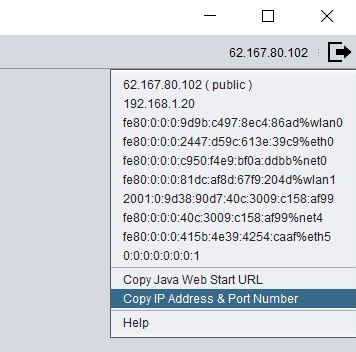
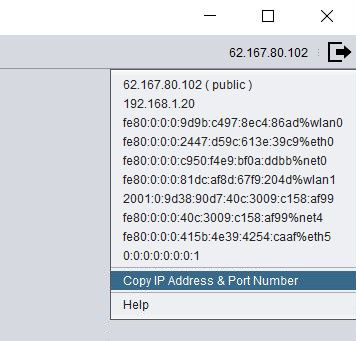
Updated documentation

diff --git a/docs/de_download.html b/docs/de_download.html
@@ -8,6 +8,7 @@
 <meta http-equiv="X-UA-Compatible" content="IE=edge">
 <title>Dayon! - Fernwartung für Familie und Freunde</title>
 <link rel="stylesheet" type="text/css" href="style.css">
+<link rel="shortcut icon" type="image/x-icon" href="favicon.ico">
 </head>
 <body>
 	<div id="container">
@@ -26,7 +27,7 @@
 			<p>
 				<b>Windows:</b> es existieren zwei Installationspakete, die eigentliche Installation ist selbsterklärend. Sie haben die Wahl zwischen einem Installer mit oder ohne integrierter JRE (OpenJDK 1.8 basiert). Das Paket mit integrierter JRE eignet sich bloss für 64Bit Windows Varianten.
 			<p>
-				<b>Debian und Ubuntu Linux:</b> das <code>.deb</code> Paket lässt sich am komfortabelsten mittels dem integrierten Software Installer installieren. Alternativ kann es via dem Befehl <code>sudo dpkg -i dayon*.deb</code> manuell installiert werden.
+				<b>Debian & Ubuntu:</b> das <code>.deb</code> Paket lässt sich am komfortabelsten mittels dem integrierten Software Installer installieren. Alternativ kann es via dem Befehl <code>sudo dpkg -i dayon*.deb</code> manuell installiert werden.
 			<p>
 				<b>Linux:</b> das .tgz-Paket mittels <code>tar xzvf</code> entpacken. Im Zielverzeichnis das Shellskript <code>setup.sh</code> ausführen. Die installierte JRE resp. JDK wird automatisch detektiert. Die JRE ist nicht im
 				.tgz-Paket enthalten. Sollte die Autodetektierung aus irgend einem Grund fehlschlagen, so überprüfen Sie das Vorhandensein einer JRE und definieren deren Pfad in der Variable <code>JAVA_HOME</code> im Skript (<code>bin/dayon.sh</code>). Beachten Sie, dass die
@@ -34,6 +35,12 @@
 			<p>
 				<b>Mac OS/OS X:</b> das Paket an einen Ort ihrer Wahl entpacken. Ev. einen Alias für bin/dayon_assisted und bin/dayon_assistant erstellen und auf den Desktop kopieren. (Voraussetzung: installiertes JDK 1.8 oder neuer).
 			<h2>Changelog</h2>
+			<h3>Änderungen Dayon! v1.8 Truganini (18. Mai 2019) <span class="red">*</span></h3>
+			<ul>
+				<li>Verbesserter Datei Transfer
+				<li>JAVA Web Start entfernt
+				<li>Jetty Abhängigkeiten entfernt
+			</ul>
 			<h3>Änderungen Dayon! v1.7 Tesler (21. Februar 2019) <span class="red">*</span></h3>
 			<ul>
 				<li>Transfer der Zwischenablage

diff --git a/docs/fr_download.html b/docs/fr_download.html
@@ -8,6 +8,7 @@
 <meta http-equiv="X-UA-Compatible" content="IE=edge">
 <title>Dayon! - Assistance à distance pour votre famille et vos amis</title>
 <link rel="stylesheet" type="text/css" href="style.css">
+<link rel="shortcut icon" type="image/x-icon" href="favicon.ico">
 </head>
 <body>
 	<div id="container">
@@ -27,13 +28,19 @@
 				<b>Windows:</b> deux programmes d'installation sont disponible et l'installation devrait être assez directe. Un paquet est livré avec un JRE à base du OpenJDK 1.8, l'autre sans. Cet avec JRE peut seulement etre utilisé avec des versions de Windows de
 				64bit.
 			<p>
-				<b>Debian et Ubuntu:</b> le paquet <code>.deb</code> peut être installé à l'aide du programme d'installation fourni par votre système d'exploitation. Sinon, vous pouvez l'installer en exécutant <code>sudo dpkg -i dayon*.deb</code>.
+				<b>Debian & Ubuntu:</b> le paquet <code>.deb</code> peut être installé à l'aide du programme d'installation fourni par votre système d'exploitation. Sinon, vous pouvez l'installer en exécutant <code>sudo dpkg -i dayon*.deb</code>.
 			<p>
 				<b>Linux:</b> extraisez le fichier TGZ. Exécutez le script <code>setup.sh</code>. La location du JRE/JDK installé va être détecté automatiquement. Il n'est pas livré dans le tgz. Si, pour quelque raison que ce soit, il ne
 				le fasse pas, vous pouvez configurez <code>JAVA_HOME</code> dans (<code>bin/dayon_run.sh</code>) manuellement. Notez que, j'ai testé ceci sur Debian et Ubuntu seulement.
 			<p>
 				<b>Mac OS/OS X:</b> extrayez le fichier TGZ à une location de votre choix. Pour plus de commodité, vous pouvez créer un alias pour bin/dayon_assisted et bin/dayon_assistant et les copier sur votre bureau. (JDK 1.8 nécessaire)
 			<h2>Journal des modifications</h2>
+			<h3>Modifications pour Dayon! v1.8 Truganini (18 Mai 2019) <span class="red">*</span></h3>
+			<ul>
+				<li>Transfert de fichier amélioré
+				<li>Enlevé JAVA Web Start
+				<li>Supprimé les dépendances Jetty
+			</ul>
 			<h3>Modifications pour Dayon! v1.7 Tesler (21 février 2019) <span class="red">*</span></h3>
 			<ul>
 				<li>Transfér du presse-papier

diff --git a/docs/download.html b/docs/download.html
@@ -8,6 +8,7 @@
 <meta http-equiv="X-UA-Compatible" content="IE=edge">
 <title>Dayon! - Remote assistance for your family and friends</title>
 <link rel="stylesheet" type="text/css" href="style.css">
+<link rel="shortcut icon" type="image/x-icon" href="favicon.ico">
 </head>
 <body>
 	<div id="container">
@@ -26,13 +27,19 @@
 			<p>
 				<b>Windows:</b> two installers are available and the installation should be straightforward. One package comes bundled with an OpenJDK 1.8 based JRE and one without. The one with included JRE is for 64bit versions of Windows only.
 			<p>
-				<b>Debian and Ubuntu Linux:</b> the <code>.deb</code> package can be installed using the software installer provided by your operating system. Alternatively you may install it by executing <code>sudo dpkg -i dayon*.deb</code>.
+				<b>Debian & Ubuntu:</b> the <code>.deb</code> package can be installed using the software installer provided by your operating system. Alternatively you may install it by executing <code>sudo dpkg -i dayon*.deb</code>.
 			<p>
 				<b>Linux:</b> you have to <code>tar xzvf</code> the package. Run the script <code>setup.sh</code>, located in the target directory. The location of the installed JRE/JDK is going to be detected automatically. It is not bundled in the tgz. If it should
 				for whatever reason fail to do so, then you can set the <code>JAVA_HOME</code> in (<code>bin/dayon_run.sh</code>) manually. Note that, I've been testing this on various Debian and Ubuntu releases only.
 			<p>
 				<b>Mac OS/OS X:</b> extract the package to a location of your choice. For more convenience you may want to create an alias for bin/dayon_assisted and bin/dayon_assistant and copy them to your desktop. (JDK 1.8  or greater required)
 			<h2>Change log</h2>
+			<h3>Changes in Dayon! v1.8 Truganini (May 18th, 2019) <span class="red">*</span></h3>
+			<ul>
+				<li>Improved file transfer
+				<li>Removed JAVA Web Start
+				<li>Removed Jetty dependencies
+			</ul>
 			<h3>Changes in Dayon! v1.7 Tesler (February 21th, 2019) <span class="red">*</span></h3>
 			<ul>
 				<li>Clipboard transfer

diff --git a/docs/fr_support.html b/docs/fr_support.html
@@ -8,6 +8,7 @@
 <meta http-equiv="X-UA-Compatible" content="IE=edge">
 <title>Dayon! - Assistance à distance pour votre famille et vos amis</title>
 <link rel="stylesheet" type="text/css" href="style.css">
+<link rel="shortcut icon" type="image/x-icon" href="favicon.ico">
 </head>
 <body>
 	<div id="container">
@@ -23,7 +24,7 @@
 				Vous pouvez poster une question ou ouvrir un issue sur <a href="https://github.com/retgal/dayon/issues">GitHub</a>.
 			<h3>Problèmes Connus</h3>
 			<ul>
-				<li>Le support (version 1.7) du clavier est toujours plutôt minimal; il n'y pas moyen pour le moment d'envoyer des signaux et quelques combinaisons de touches ne sont pas supportées correctement (e.g., <code>Ctrl-Alt-Del</code>).
+				<li>En version 1.8, le support du clavier est toujours limité; il n'y pas moyen pour le moment d'envoyer des signaux et quelques combinaisons de touches ne sont pas supportées correctement (e.g., <code>Ctrl-Alt-Del</code>).
 				<li>Le transfert de répertoires (dossiers) n'est pas possible.
 				<li>La vitesse de transmission pour des gros fichiers est très modeste.
 			</ul>

diff --git a/docs/de_support.html b/docs/de_support.html
@@ -8,6 +8,7 @@
 <meta http-equiv="X-UA-Compatible" content="IE=edge">
 <title>Dayon! - Fernwartung für Familie und Freunde</title>
 <link rel="stylesheet" type="text/css" href="style.css">
+<link rel="shortcut icon" type="image/x-icon" href="favicon.ico">
 </head>
 <body>
 	<div id="container">
@@ -23,7 +24,7 @@
 				Posten Sie eine Frage oder erfassen Sie ein Issue auf <a href="https://github.com/retgal/dayon/issues">GitHub</a>.
 			<h3>Bekannte Einschränkungen</h3>
 			<ul>
-				<li>Auch in Version 1.7 ist die Tastaturunterstützung noch immer ziemlich minimalistisch; Es gibt zZt. keine Möglichkeit gewisse Tastenkombinationen wie etwa (e.g., <code>Ctrl-Alt-Del</code>) an den entfernten Computer zu senden.
+				<li>Auch in Version 1.8 ist die Tastaturunterstützung noch immer limitiert; Es gibt zzt. keine Möglichkeit gewisse Tastenkombinationen wie etwa (e.g., <code>Ctrl-Alt-Del</code>) an den entfernten Computer zu senden.
 				<li>Übertragen von Verzeichnissen (Ordnern) wird nicht unterstützt.
 				<li>Übertragungsgeschwindigkeit von grossen Dateien ist ziemlich bescheiden.
 			</ul>

diff --git a/docs/support.html b/docs/support.html
@@ -8,6 +8,7 @@
 <meta http-equiv="X-UA-Compatible" content="IE=edge">
 <title>Dayon! - Remote assistance for your family and friends</title>
 <link rel="stylesheet" type="text/css" href="style.css">
+<link rel="shortcut icon" type="image/x-icon" href="favicon.ico">
 </head>
 <body>
 	<div id="container">
@@ -23,7 +24,7 @@
 				Post your question or open a new issue on <a href="https://github.com/retgal/dayon/issues">GitHub</a>.
 			<h3>Known Limitations</h3>
 			<ul>
-				<li>As of version 1.7, the keyboard control support is still quite minimal; there's currently no way to send some signals and some key combinations are not properly supported (e.g., <code>Ctrl-Alt-Del</code>).
+				<li>As of version 1.8, the keyboard control support is still limited; there's currently no way to send some signals and some key combinations are not properly supported (e.g., <code>Ctrl-Alt-Del</code>).
 				<li>Transferring of directories (folders) is not supported.
 				<li>Transmission speed of larger files is rather modest.
 			</ul>

diff --git a/docs/quickstart.html b/docs/quickstart.html
@@ -8,6 +8,7 @@
 <meta http-equiv="X-UA-Compatible" content="IE=edge">
 <title>Dayon! - Remote assistance for your family and friends</title>
 <link rel="stylesheet" type="text/css" href="style.css">
+<link rel="shortcut icon" type="image/x-icon" href="favicon.ico">
 </head>
 <body>
 	<div id="container">
@@ -90,7 +91,7 @@
 				</ul>
 				<strong>Caution</strong>: Transferring of directories (folders) is not supported. Furthermore, the function is very limited for the transmission of large files, as the transmission speed is rather modest.
 			<p>
-				That's all folk! You can find more information in the <a href="support.html">support</a> page.
+				That's all folks! You can find more information on the <a href="support.html">support</a> page.
 		</div>
 		<div id="footer"></div>
 	</div>

diff --git a/docs/fr_feedback.html b/docs/fr_feedback.html
@@ -8,6 +8,7 @@
 <meta http-equiv="X-UA-Compatible" content="IE=edge">
 <title>Dayon! - Assistance à distance pour votre famille et vos amis</title>
 <link rel="stylesheet" type="text/css" href="style.css">
+<link rel="shortcut icon" type="image/x-icon" href="favicon.ico">
 </head>
 <body>
 	<div id="container">

diff --git a/docs/fr_index.html b/docs/fr_index.html
@@ -8,6 +8,7 @@
 <meta http-equiv="X-UA-Compatible" content="IE=edge">
 <title>Dayon! - Assistance à distance pour votre famille et vos amis</title>
 <link rel="stylesheet" type="text/css" href="style.css">
+<link rel="shortcut icon" type="image/x-icon" href="favicon.ico">
 </head>
 <body>
 	<div id="container">

diff --git a/docs/fr_quickstart.html b/docs/fr_quickstart.html
@@ -8,6 +8,7 @@
 <meta http-equiv="X-UA-Compatible" content="IE=edge">
 <title>Dayon! - Assistance à distance pour votre famille et vos amis</title>
 <link rel="stylesheet" type="text/css" href="style.css">
+<link rel="shortcut icon" type="image/x-icon" href="favicon.ico">
 </head>
 <body>
 	<div id="container">

diff --git a/docs/feedback.html b/docs/feedback.html
@@ -8,6 +8,7 @@
 <meta http-equiv="X-UA-Compatible" content="IE=edge">
 <title>Dayon! - Remote assistance for your family and friends</title>
 <link rel="stylesheet" type="text/css" href="style.css">
+<link rel="shortcut icon" type="image/x-icon" href="favicon.ico">
 </head>
 <body>
 	<div id="container">

diff --git a/docs/index.html b/docs/index.html
@@ -8,6 +8,7 @@
 <meta http-equiv="X-UA-Compatible" content="IE=edge">
 <title>Dayon! - Remote assistance for your family and friends</title>
 <link rel="stylesheet" type="text/css" href="style.css">
+<link rel="shortcut icon" type="image/x-icon" href="favicon.ico">
 </head>
 <body>
 	<div id="container">
